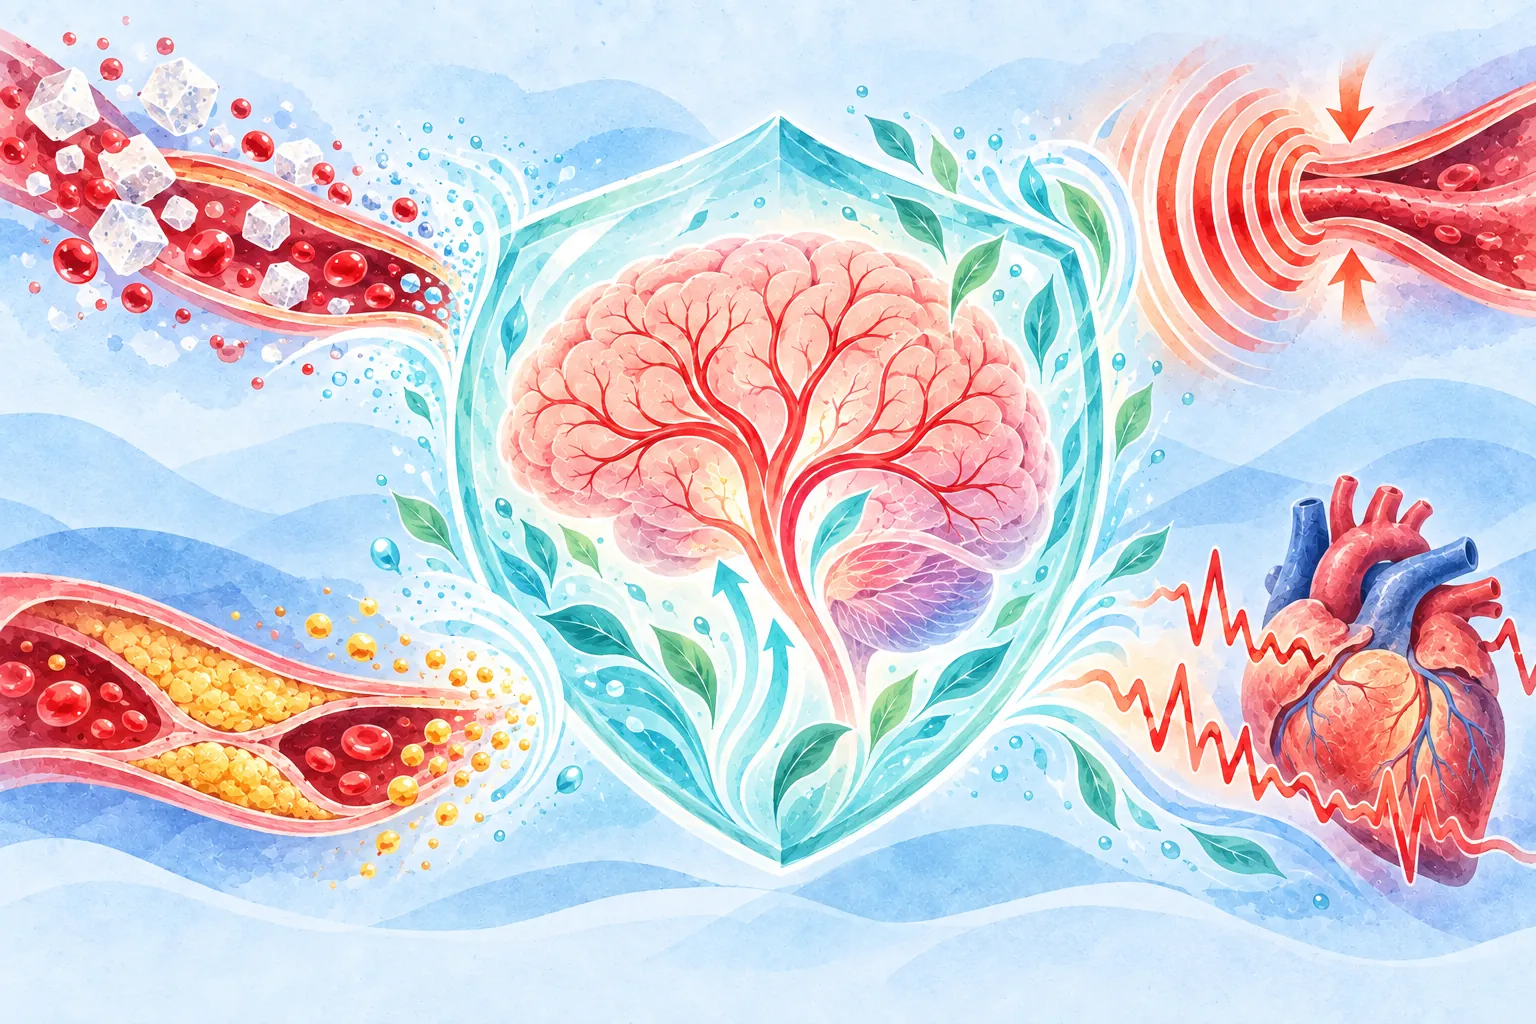
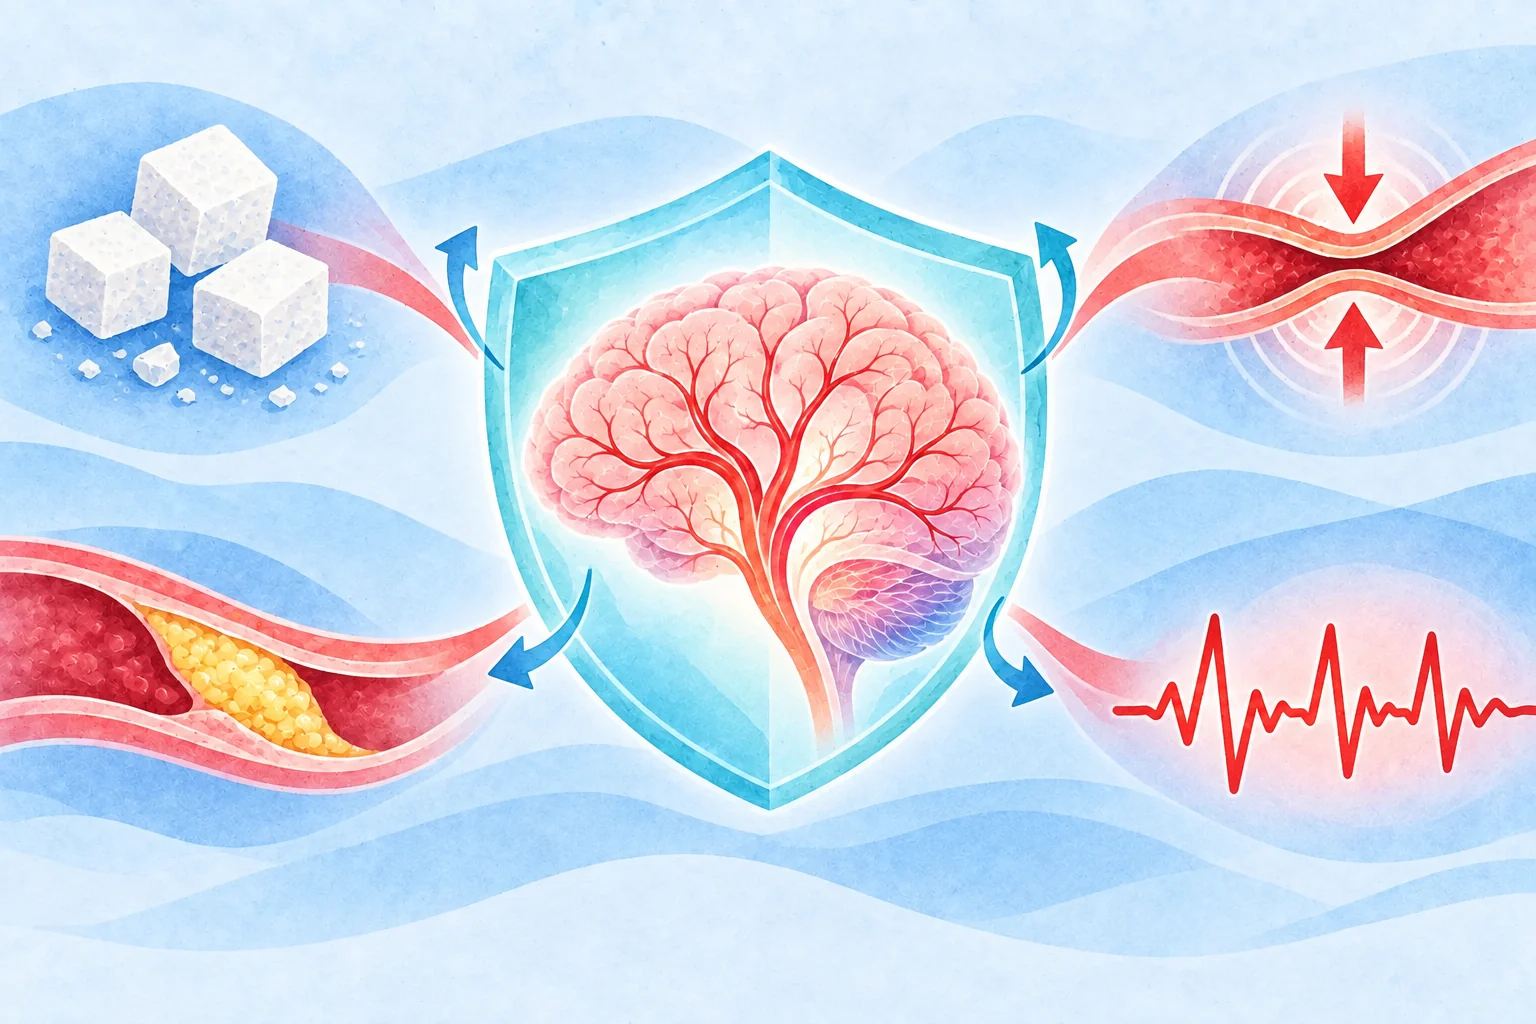
feat: simplify chapter 6 and 7 header illustrations
Regenerate both images around a single shield focal point and update
their prompts to drop decorative detail.

diff --git a/docs/illustration-prompts.md b/docs/illustration-prompts.md
@@ -38,6 +38,6 @@ generous empty space around the edges. No text, no letters, no numbers, no logos
 ภาพชุดนี้ใช้สไตล์สีน้ำเชิงบรรณาธิการบนกระดาษฟ้าอมขาว มีเส้นหมึกกรมท่า สีแดงเฉพาะจุดเร่งด่วน และพื้นที่ปลอดภัยรอบภาพสำหรับ crop แบบ 3:2 โดยไม่มีข้อความ ตัวอักษร ตัวเลข โลโก้ หรือลายน้ำ ภาพบทที่ 1–4 ใช้เป็น style reference เท่านั้น ไม่ใช้เป็นต้นแบบองค์ประกอบ
 
 - **บทที่ 5 เจออาการแล้ว ทำอย่างไร** → `chapter-5-what-to-do.webp`: ครอบครัวไทยช่วยผู้สูงอายุให้นอนตะแคงอย่างปลอดภัย โทรขอความช่วยเหลือ และจำเวลาเริ่มอาการ โดยมีเส้นสีแดงเชื่อมโทรศัพท์ นาฬิกา และรถพยาบาลเป็นเส้นทางฉุกเฉินเดียวกัน
-- **บทที่ 6 ข่าวดี ป้องกันได้ 90%** → `chapter-6-prevent-90.webp`: โล่สีน้ำสีเขียวอมฟ้าปกป้องสมองและหลอดเลือดจากภัย 4 ทิศ ได้แก่ น้ำตาล ความดัน ไขมันอุดตัน และหัวใจเต้นผิดจังหวะ
-- **บทที่ 7 6 พฤติกรรม สร้างโล่ของคุณ** → `chapter-7-six-habits.webp`: การคุมน้ำหนัก ไม่สูบบุหรี่ ไม่ดื่มสุรา พักผ่อน กินผักผลไม้ และออกกำลังกาย เชื่อมด้วยริบบิ้นหกสายที่รวมเป็นโล่ปกป้องสมอง
+- **บทที่ 6 ข่าวดี ป้องกันได้ 90%** → `chapter-6-prevent-90.webp`: ใช้องค์ประกอบหลักเพียงจุดเดียว คือโล่สีน้ำสีเขียวอมฟ้าที่ปกป้องสมอง โดยวางสัญลักษณ์ขนาดใหญ่และเรียบง่ายของ 4 โรคไว้รอบนอก ได้แก่ น้ำตาล ความดัน ไขมันอุดตัน และหัวใจเต้นผิดจังหวะ เว้นพื้นที่ฟ้าอ่อนให้มาก และไม่ใส่ใบไม้ ฟองน้ำ หรือรายละเอียดตกแต่งยิบย่อย
+- **บทที่ 7 6 พฤติกรรม สร้างโล่ของคุณ** → `chapter-7-six-habits.webp`: ใช้โล่ปกป้องสมองเป็นจุดโฟกัสเดียว แล้วให้ริบบิ้นหรือกลีบสีน้ำ 6 ชิ้นประกอบเข้าหาโล่ แต่ละชิ้นมีสัญลักษณ์เรียบง่ายของการคุมน้ำหนัก ไม่สูบบุหรี่ ไม่ดื่มสุรา พักผ่อน กินผักผลไม้ และออกกำลังกาย ไม่มีฉากสวน ตัวละคร หรือวัตถุประกอบย่อย
 - **บทที่ 8 สิ่งสำคัญที่อย่าลืม** → `chapter-8-dont-forget.webp`: ครอบครัวหลายวัยเชื่อมกันด้วยเส้นแสงรูปวงคุ้มครอง ผ่านการวัดความดัน ตรวจสุขภาพ ใช้ยาตามแพทย์สั่ง และส่งต่อความรู้เรื่องสัญญาณเตือน
